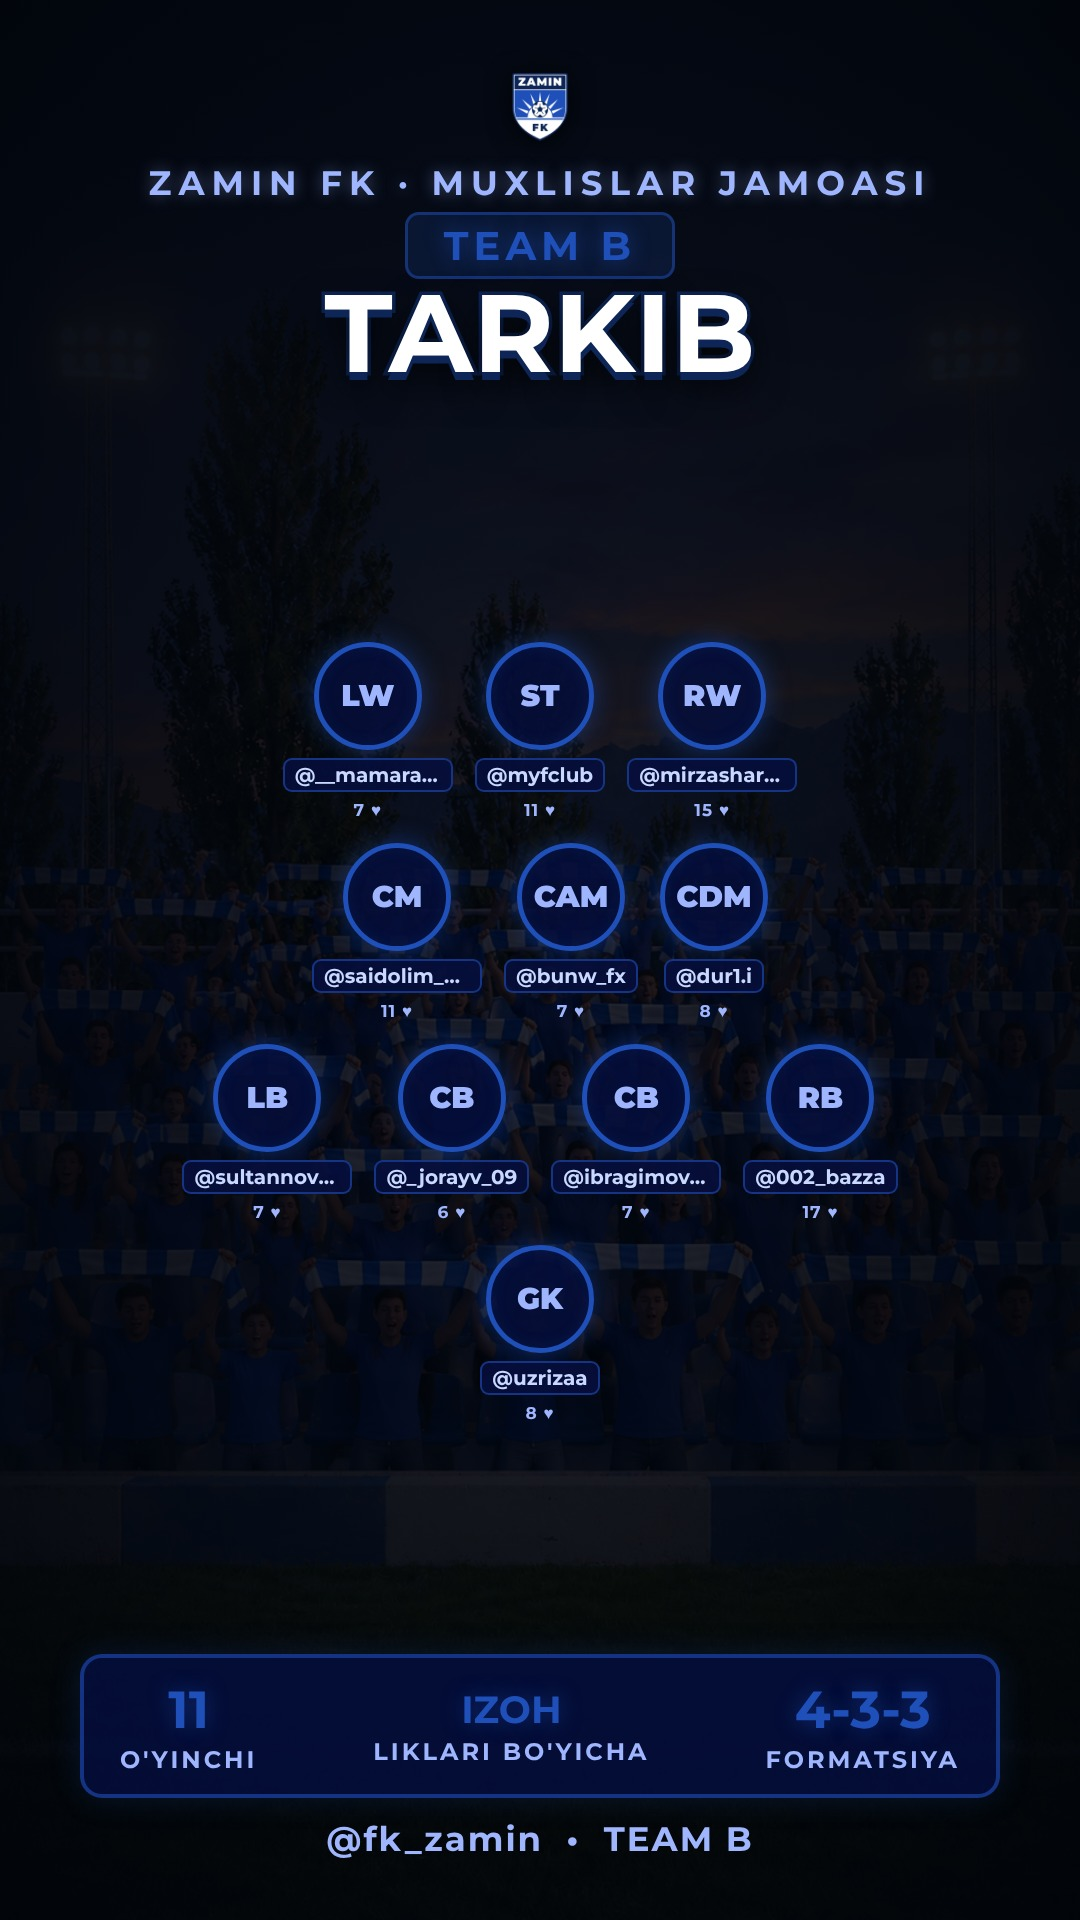
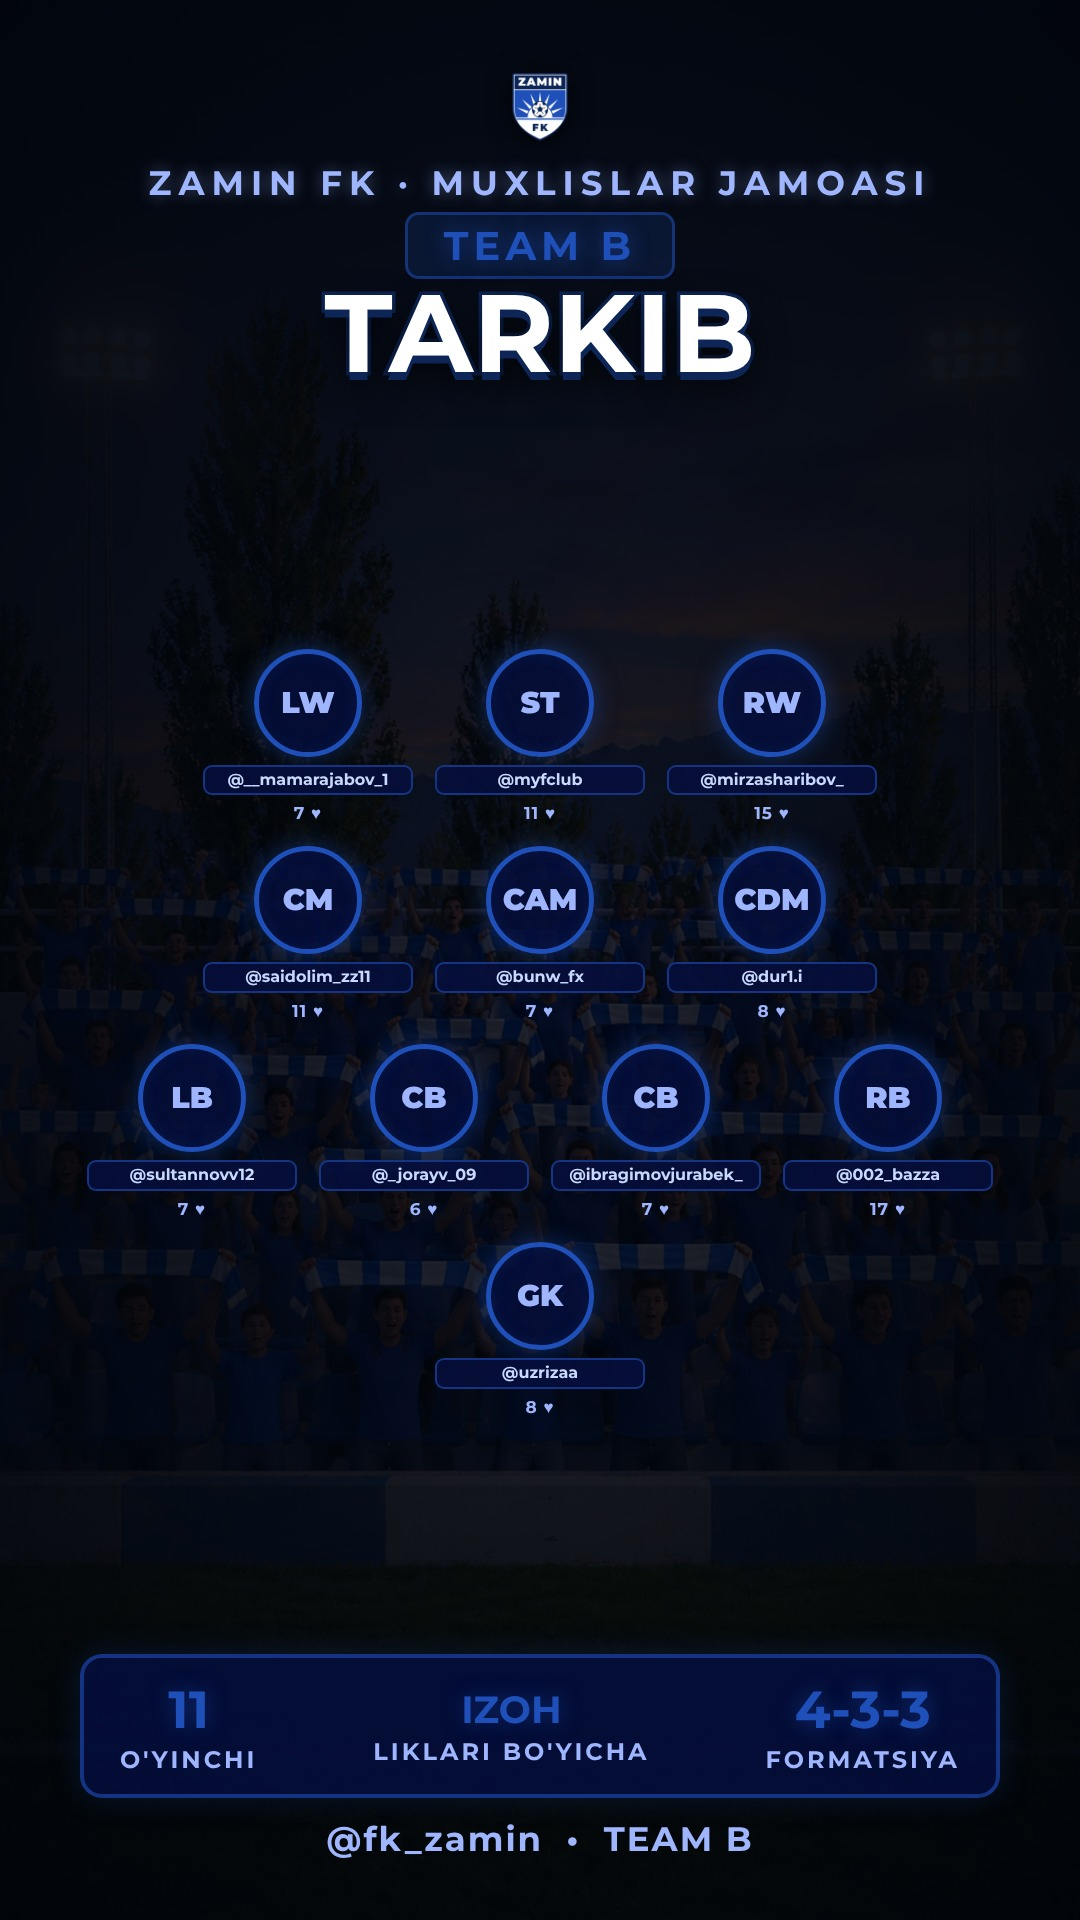
fix story username formatting — no truncation, single-line names
Claude-Session: https://claude.ai/code/session_017oAb5JybVNWND8Xih9kaCy

Changed region(s): [[0.0611, 0.3125, 0.9167, 0.75]]

diff --git a/ZAMIN_FK/19_Match_Elon/story/story_teamB.html b/ZAMIN_FK/19_Match_Elon/story/story_teamB.html
@@ -23,9 +23,9 @@ h1{font-size:110px;line-height:.92;text-align:center;color:#fff;
 .circle{width:108px;height:108px;border-radius:50%;border:5px solid #1F4FB8;
   background:rgba(5,14,60,.85);color:#9fb6ff;font-size:30px;line-height:98px;text-align:center;
   box-shadow:0 0 24px rgba(31,79,184,.5),inset 0 0 16px rgba(31,79,184,.12);font-weight:900;flex-shrink:0}
-.pname{font-size:20px;font-weight:700;background:rgba(5,14,60,.9);border:2.5px solid rgba(31,79,184,.6);
-  border-radius:9px;padding:3px 10px;color:#c8d8ff;max-width:170px;text-align:center;
-  overflow:hidden;text-overflow:ellipsis;white-space:nowrap}
+.pname{font-size:16px;font-weight:700;background:rgba(5,14,60,.9);border:2.5px solid rgba(31,79,184,.6);
+  border-radius:9px;padding:3px 6px;color:#c8d8ff;width:210px;text-align:center;
+  overflow-wrap:break-word;line-height:1.3}
 
 /* likes badge on each slot */
 .likes{font-size:17px;color:#9fb6ff;font-weight:700;letter-spacing:1px}

diff --git a/ZAMIN_FK/19_Match_Elon/story/story_teamC.html b/ZAMIN_FK/19_Match_Elon/story/story_teamC.html
@@ -25,7 +25,7 @@ h1{font-size:110px;line-height:.92;text-align:center;color:#FFD23F;
   text-shadow:0 4px 0 #0D2557}
 .posbadge{font-size:22px;font-weight:900;background:#FFD23F;color:#0D2557;border-radius:8px;
   padding:4px 14px;min-width:68px;text-align:center;flex-shrink:0;box-shadow:0 4px 0 #0D2557}
-.uname{font-size:28px;color:#fff;flex:1;overflow:hidden;text-overflow:ellipsis;white-space:nowrap;font-weight:700}
+.uname{font-size:26px;color:#fff;flex:1;font-weight:700;word-break:break-all;line-height:1.25}
 .cmts{font-size:26px;color:#FFD23F;flex-shrink:0;font-weight:900;letter-spacing:1px}
 
 /* stats bar */
